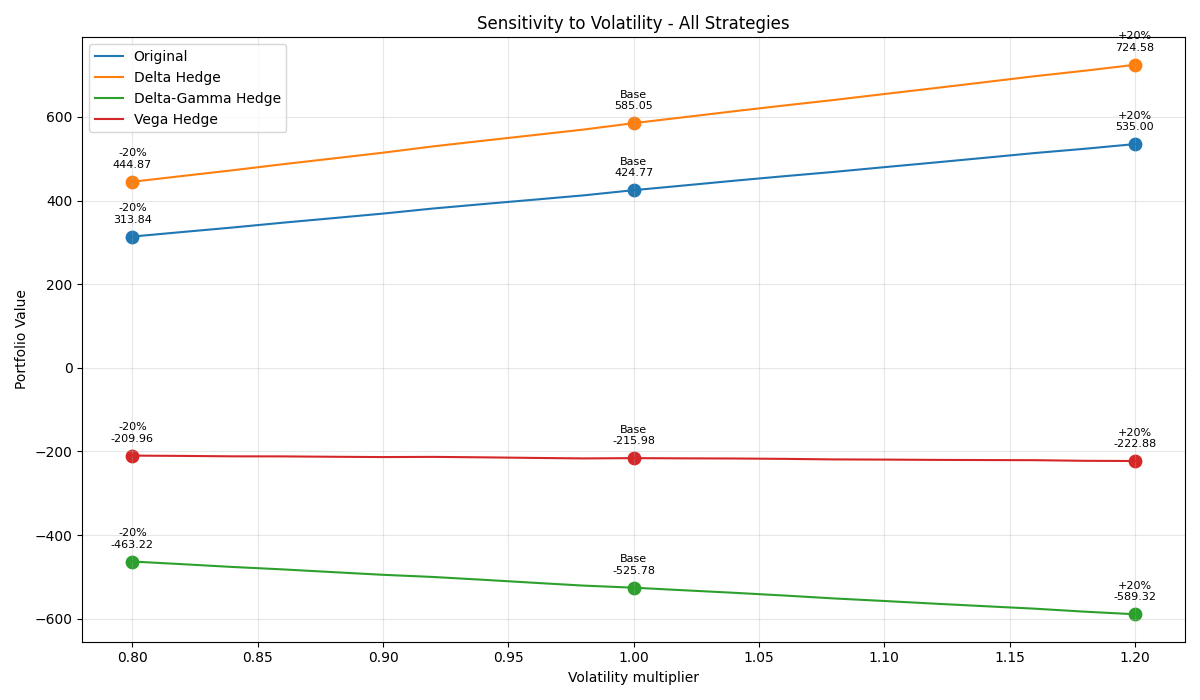
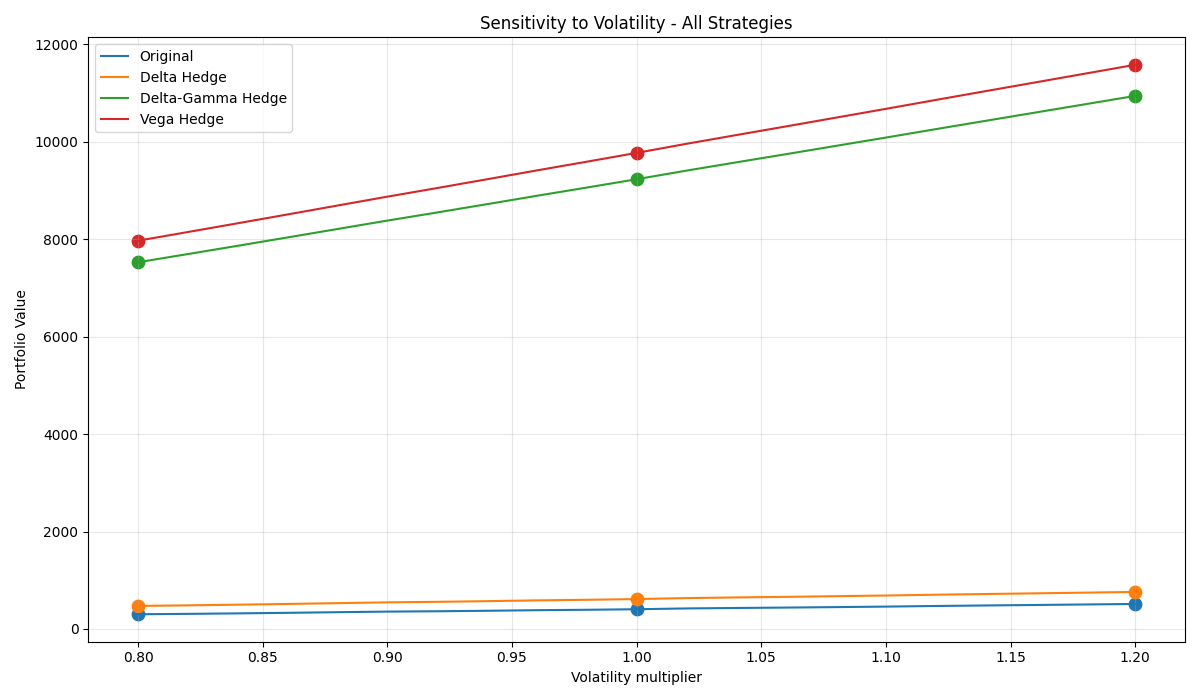
test

diff --git a/option_pricing/monte_carlo/mc_portfolio_analysis.py b/option_pricing/monte_carlo/mc_portfolio_analysis.py
@@ -185,13 +185,13 @@ def run_sensitivity_analysis_mc(portfolio, N, n_sim_sens, vis_dir, horizon):
             port_mod = copy.deepcopy(port)
             for opt in port_mod:
                 opt['S'] = S
-            values.append(sum(price_option_mc(opt, n_sim=n_sim_sens, n_steps=N) * opt['qty'] for opt in port_mod))
+            values.append(sum(price_option_mc(opt, n_sim=n_sim_sens, n_steps=N_steps) * opt['qty'] for opt in port_mod))
         plt.plot(spot_range, values, label=name)
         plt.scatter([spot_range[spot_idx_low], spot_range[spot_idx_base], spot_range[spot_idx_high]],
                     [values[spot_idx_low], values[spot_idx_base], values[spot_idx_high]],
                     marker='o', s=80)
-        for idx, label in zip([spot_idx_low, spot_idx_base, spot_idx_high], ['-10%', 'Base', '+10%']):
-            plt.annotate(f"{label}\n{values[idx]:.2f}", (spot_range[idx], values[idx]), textcoords="offset points", xytext=(0,10), ha='center', fontsize=8)
+        for idx in [spot_idx_low, spot_idx_base, spot_idx_high]:
+            plt.annotate('', (spot_range[idx], values[idx]), textcoords="offset points", xytext=(0,10), ha='center', fontsize=8)
         base = initial_portfolio_value if name == 'Original' else values[spot_idx_base]  # Use initial portfolio value only for 'Original'
         low = values[spot_idx_low]
         high = values[spot_idx_high]
@@ -233,13 +233,13 @@ def run_sensitivity_analysis_mc(portfolio, N, n_sim_sens, vis_dir, horizon):
             port_mod = copy.deepcopy(port)
             for opt in port_mod:
                 opt['r'] = r
-            values.append(sum(price_option_mc(opt, n_sim=n_sim_sens, n_steps=N) * opt['qty'] for opt in port_mod))
+            values.append(sum(price_option_mc(opt, n_sim=n_sim_sens, n_steps=N_steps) * opt['qty'] for opt in port_mod))
         plt.plot(r_range, values, label=name)
         plt.scatter([r_range[r_idx_low], r_range[r_idx_base], r_range[r_idx_high]],
                     [values[r_idx_low], values[r_idx_base], values[r_idx_high]],
                     marker='o', s=80)
-        for idx, label in zip([r_idx_low, r_idx_base, r_idx_high], ['-1%', 'Base', '+1%']):
-            plt.annotate(f"{label}\n{values[idx]:.2f}", (r_range[idx], values[idx]), textcoords="offset points", xytext=(0,10), ha='center', fontsize=8)
+        for idx in [r_idx_low, r_idx_base, r_idx_high]:
+            plt.annotate('', (r_range[idx], values[idx]), textcoords="offset points", xytext=(0,10), ha='center', fontsize=8)
         base = initial_portfolio_value if name == 'Original' else values[r_idx_base]  # Use initial portfolio value only for 'Original'
         low = values[r_idx_low]
         high = values[r_idx_high]
@@ -284,13 +284,13 @@ def run_sensitivity_analysis_mc(portfolio, N, n_sim_sens, vis_dir, horizon):
                 if iv is None:
                     iv = 0.2
                 opt['market_price'] = black_scholes_call_price(opt['S'], opt['K'], opt['T'], opt['r'], iv*vol_mult) if opt['type']=='call' else black_scholes_put_price(opt['S'], opt['K'], opt['T'], opt['r'], iv*vol_mult)
-            values.append(sum(price_option_mc(opt, n_sim=n_sim_sens, n_steps=N) * opt['qty'] for opt in port_mod))
+            values.append(sum(price_option_mc(opt, n_sim=n_sim_sens, n_steps=N_steps) * opt['qty'] for opt in port_mod))
         plt.plot(vol_range, values, label=name)
         plt.scatter([vol_range[vol_idx_low], vol_range[vol_idx_base], vol_range[vol_idx_high]],
                     [values[vol_idx_low], values[vol_idx_base], values[vol_idx_high]],
                     marker='o', s=80)
-        for idx, label in zip([vol_idx_low, vol_idx_base, vol_idx_high], ['-20%', 'Base', '+20%']):
-            plt.annotate(f"{label}\n{values[idx]:.2f}", (vol_range[idx], values[idx]), textcoords="offset points", xytext=(0,10), ha='center', fontsize=8)
+        for idx in [vol_idx_low, vol_idx_base, vol_idx_high]:
+            plt.annotate('', (vol_range[idx], values[idx]), textcoords="offset points", xytext=(0,10), ha='center', fontsize=8)
         base = initial_portfolio_value if name == 'Original' else values[vol_idx_base]  # Use initial portfolio value only for 'Original'
         low = values[vol_idx_low]
         high = values[vol_idx_high]
@@ -326,9 +326,9 @@ if __name__ == "__main__":
     ]
     horizonte_dias = 10 / 252
     N_steps = 20
-    n_sim_main = 10000      # Para P&L y VaR/ES
-    n_sim_greeks = 10000   # Para griegas
-    n_sim_sens = 10000      # Para sensibilidades
+    n_sim_main = 1000      # Para P&L y VaR/ES
+    n_sim_greeks = 1000   # Para griegas
+    n_sim_sens = 1000     # Para sensibilidades
 
     # Use direct calculation for portfolio valuation
     initial_portfolio_value = sum(price_option_mc(opt, n_sim=n_sim_greeks, n_steps=N_steps) * opt['qty'] for opt in portfolio)
@@ -610,8 +610,8 @@ if __name__ == "__main__":
         plt.scatter([spot_range[spot_idx_low], spot_range[spot_idx_base], spot_range[spot_idx_high]],
                     [values[spot_idx_low], values[spot_idx_base], values[spot_idx_high]],
                     marker='o', s=80)
-        for idx, label in zip([spot_idx_low, spot_idx_base, spot_idx_high], ['-10%', 'Base', '+10%']):
-            plt.annotate(f"{label}\n{values[idx]:.2f}", (spot_range[idx], values[idx]), textcoords="offset points", xytext=(0,10), ha='center', fontsize=8)
+        for idx in [spot_idx_low, spot_idx_base, spot_idx_high]:
+            plt.annotate('', (spot_range[idx], values[idx]), textcoords="offset points", xytext=(0,10), ha='center', fontsize=8)
         base = initial_portfolio_value if name == 'Original' else values[spot_idx_base]  # Use initial portfolio value only for 'Original'
         low = values[spot_idx_low]
         high = values[spot_idx_high]
@@ -658,8 +658,8 @@ if __name__ == "__main__":
         plt.scatter([r_range[r_idx_low], r_range[r_idx_base], r_range[r_idx_high]],
                     [values[r_idx_low], values[r_idx_base], values[r_idx_high]],
                     marker='o', s=80)
-        for idx, label in zip([r_idx_low, r_idx_base, r_idx_high], ['-1%', 'Base', '+1%']):
-            plt.annotate(f"{label}\n{values[idx]:.2f}", (r_range[idx], values[idx]), textcoords="offset points", xytext=(0,10), ha='center', fontsize=8)
+        for idx in [r_idx_low, r_idx_base, r_idx_high]:
+            plt.annotate('', (r_range[idx], values[idx]), textcoords="offset points", xytext=(0,10), ha='center', fontsize=8)
         base = initial_portfolio_value if name == 'Original' else values[r_idx_base]  # Use initial portfolio value only for 'Original'
         low = values[r_idx_low]
         high = values[r_idx_high]
@@ -709,8 +709,8 @@ if __name__ == "__main__":
         plt.scatter([vol_range[vol_idx_low], vol_range[vol_idx_base], vol_range[vol_idx_high]],
                     [values[vol_idx_low], values[vol_idx_base], values[vol_idx_high]],
                     marker='o', s=80)
-        for idx, label in zip([vol_idx_low, vol_idx_base, vol_idx_high], ['-20%', 'Base', '+20%']):
-            plt.annotate(f"{label}\n{values[idx]:.2f}", (vol_range[idx], values[idx]), textcoords="offset points", xytext=(0,10), ha='center', fontsize=8)
+        for idx in [vol_idx_low, vol_idx_base, vol_idx_high]:
+            plt.annotate('', (vol_range[idx], values[idx]), textcoords="offset points", xytext=(0,10), ha='center', fontsize=8)
         base = initial_portfolio_value if name == 'Original' else values[vol_idx_base]  # Use initial portfolio value only for 'Original'
         low = values[vol_idx_low]
         high = values[vol_idx_high]
